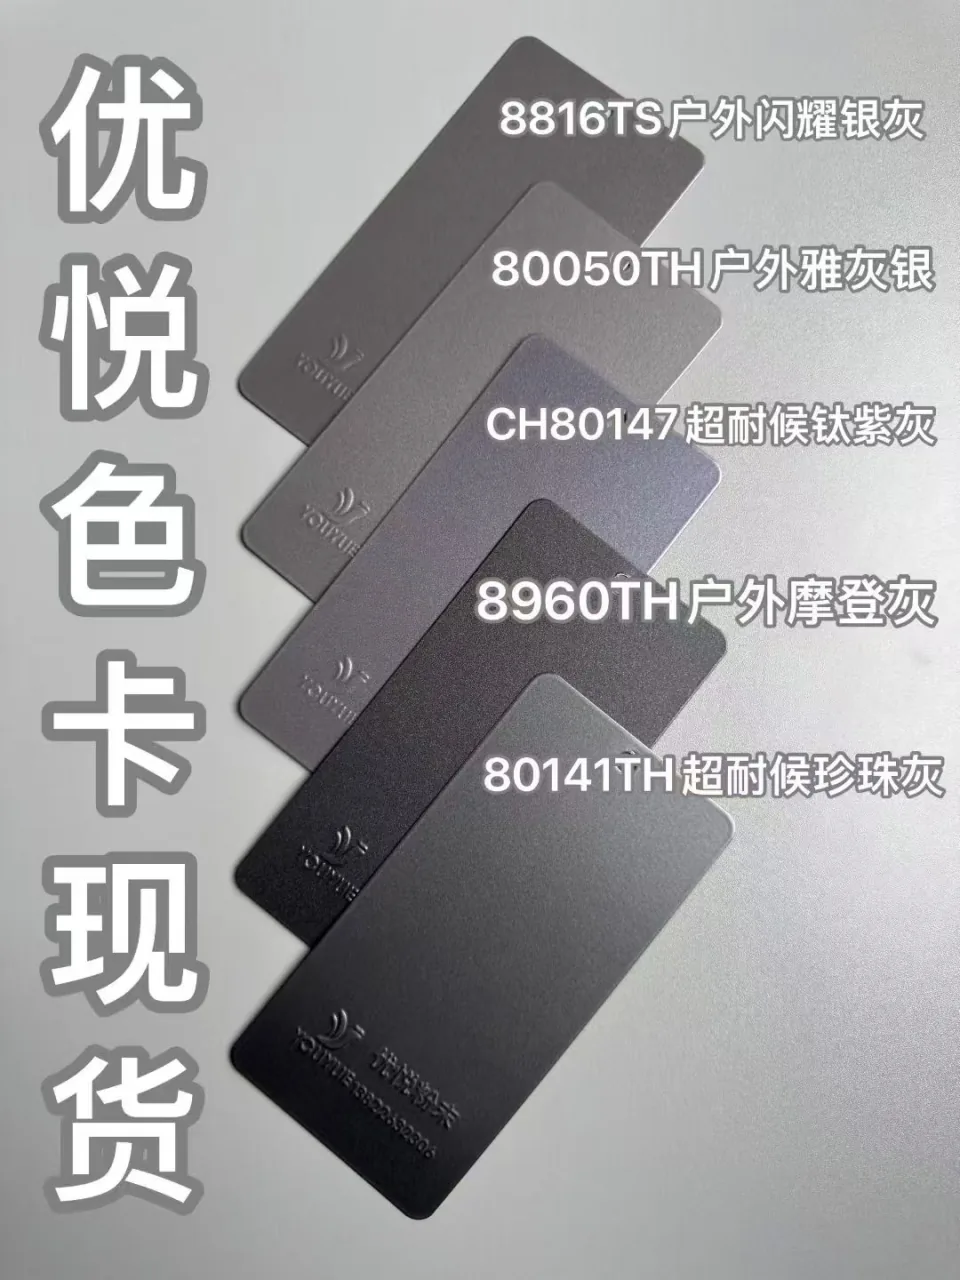
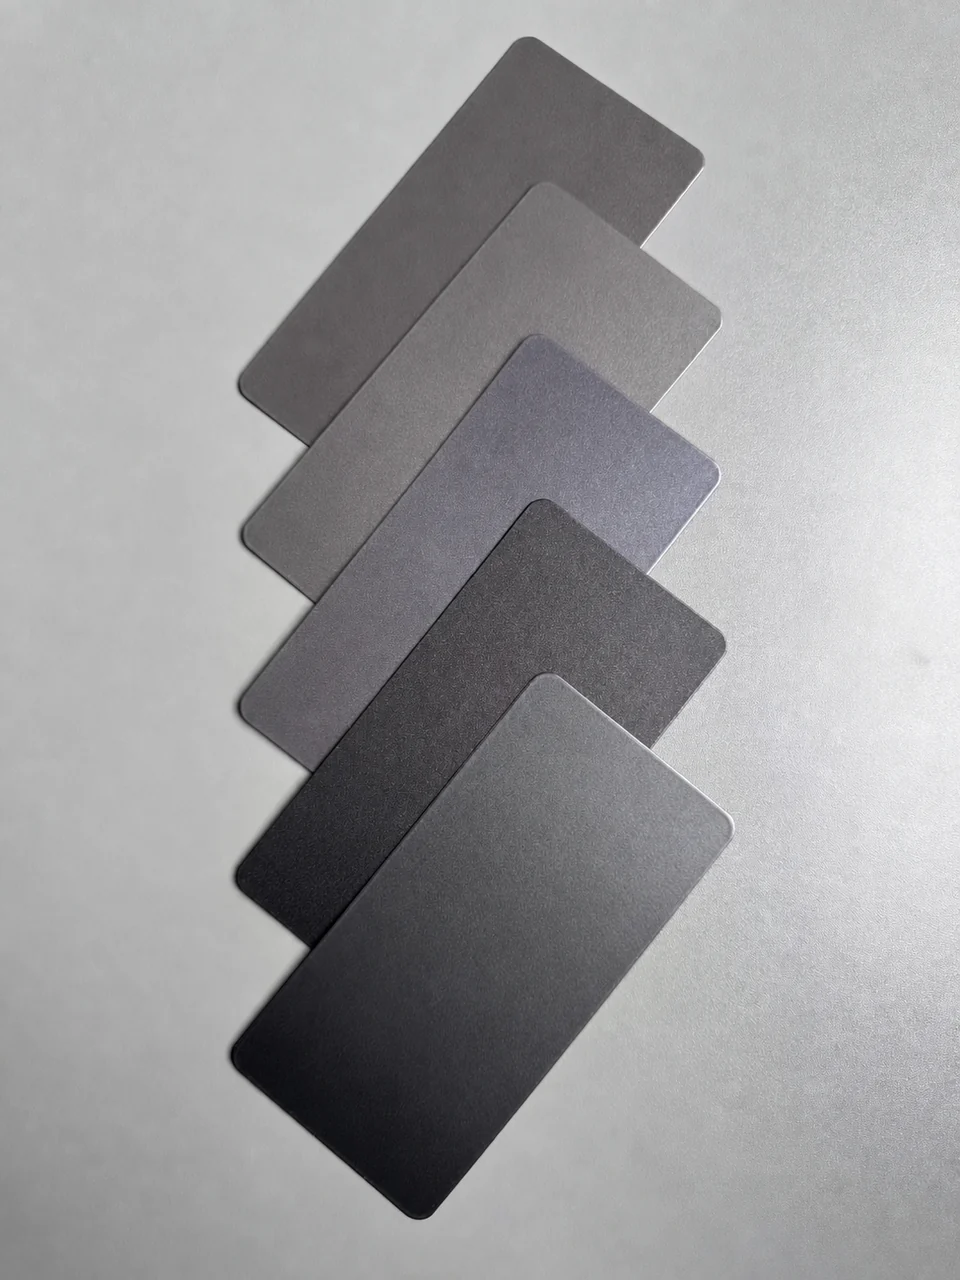
Add seven clean material palettes

diff --git a/assets/app.js b/assets/app.js
@@ -91,8 +91,8 @@
 
       frameFinish: "Frame finish", ropeColour: "Rope colour", selected: "Selected",
       supplierMaterialReference: "Supplier material reference",
-      supplierPaletteTitle: "Supplier finish & weave references",
-      supplierPaletteIntro: "Real production samples from our outdoor-material supplier, matched only to product types that can use them.",
+      supplierPaletteTitle: "Colour & weave palette library",
+      supplierPaletteIntro: "Seven production sample palettes from our outdoor-material supplier, matched only to product types that can use them.",
       finishReferenceTitle: "Outdoor powder-coat finishes",
       finishReferenceBody: "Neutral weather-resistant frame finishes for applicable aluminium furniture and shade structures.",
       ropeReferenceTitle: "Outdoor rope & weave options",
@@ -285,8 +285,8 @@
 
       frameFinish: "框架颜色", ropeColour: "绳编配色", selected: "已选",
       supplierMaterialReference: "供应商材质参考",
-      supplierPaletteTitle: "供应商表面处理与编织参考",
-      supplierPaletteIntro: "来自户外材料供应商的实物样卡，仅匹配可使用相应工艺的产品类别。",
+      supplierPaletteTitle: "颜色与编织样板库",
+      supplierPaletteIntro: "七组来自户外材料供应商的实物样板，仅匹配可使用相应工艺的产品类别。",
       finishReferenceTitle: "户外喷粉表面处理",
       finishReferenceBody: "适用于相关铝合金家具与遮阳结构的耐候中性色框架饰面。",
       ropeReferenceTitle: "户外绳编与编织选项",
@@ -463,6 +463,36 @@
       srcset: "assets/images/material-references/frame-finishes-480.webp 480w, assets/images/material-references/frame-finishes-960.webp 960w",
       width: 480, height: 640,
     },
+    muted: {
+      alt: "Muted powder-coat colour sample fan",
+      src: "assets/images/material-references/muted-finishes-480.webp",
+      srcset: "assets/images/material-references/muted-finishes-480.webp 480w, assets/images/material-references/muted-finishes-960.webp 960w",
+      width: 480, height: 640,
+    },
+    warm: {
+      alt: "Warm textured powder-coat sample cards",
+      src: "assets/images/material-references/warm-finishes-480.webp",
+      srcset: "assets/images/material-references/warm-finishes-480.webp 480w, assets/images/material-references/warm-finishes-960.webp 960w",
+      width: 480, height: 640,
+    },
+    metallic: {
+      alt: "Cool metallic powder-coat sample cards",
+      src: "assets/images/material-references/metallic-finishes-480.webp",
+      srcset: "assets/images/material-references/metallic-finishes-480.webp 480w, assets/images/material-references/metallic-finishes-960.webp 960w",
+      width: 480, height: 640,
+    },
+    pastel: {
+      alt: "Pastel powder-coat colour sample fan",
+      src: "assets/images/material-references/pastel-finishes-480.webp",
+      srcset: "assets/images/material-references/pastel-finishes-480.webp 480w, assets/images/material-references/pastel-finishes-960.webp 960w",
+      width: 480, height: 480,
+    },
+    bright: {
+      alt: "Bright powder-coat colour sample fan",
+      src: "assets/images/material-references/bright-finishes-480.webp",
+      srcset: "assets/images/material-references/bright-finishes-480.webp 480w, assets/images/material-references/bright-finishes-960.webp 960w",
+      width: 480, height: 360,
+    },
     rope: {
       title: "ropeReferenceTitle", body: "ropeReferenceBody", alt: "Outdoor rope and weave material samples",
       src: "assets/images/material-references/rope-weave-480.webp",
@@ -470,18 +500,27 @@
       width: 480, height: 360,
     },
   };
-  const materialReferenceCard = (ref) => `
-    <article class="material-reference-card">
+  const MATERIAL_REFERENCE_GALLERY = [
+    MATERIAL_REFERENCES.finish,
+    MATERIAL_REFERENCES.muted,
+    MATERIAL_REFERENCES.warm,
+    MATERIAL_REFERENCES.metallic,
+    MATERIAL_REFERENCES.pastel,
+    MATERIAL_REFERENCES.bright,
+    MATERIAL_REFERENCES.rope,
+  ];
+  const materialReferenceCard = (ref, { imageOnly = false } = {}) => `
+    <article class="material-reference-card${imageOnly ? " is-image-only" : ""}">
       <span class="material-reference-media">
         <img src="${ref.src}" srcset="${ref.srcset}"
              sizes="(min-width: 981px) 420px, calc(100vw - 80px)"
              width="${ref.width}" height="${ref.height}" loading="lazy" decoding="async"
              alt="${esc(ref.alt)}">
       </span>
-      <span class="material-reference-copy">
+      ${imageOnly ? "" : `<span class="material-reference-copy">
         <strong>${esc(t(ref.title))}</strong>
         <span>${esc(t(ref.body))}</span>
-      </span>
+      </span>`}
     </article>`;
   const materialReferencesFor = (product) => {
     const refs = [];
@@ -993,8 +1032,8 @@
     byId("finish-strip").innerHTML = FINISHES.map((f) =>
       `<div><div class="sw" style="background:${f.hex}"></div><span>${esc(f[state.lang])}</span></div>`).join("");
 
-    byId("material-reference-grid").innerHTML = [MATERIAL_REFERENCES.finish, MATERIAL_REFERENCES.rope]
-      .map(materialReferenceCard).join("");
+    byId("material-reference-grid").innerHTML = MATERIAL_REFERENCE_GALLERY
+      .map((ref) => materialReferenceCard(ref, { imageOnly: true })).join("");
 
     byId("footer-collections").innerHTML = catalog.collections.map((c) =>
       `<button type="button" data-open-collection="${c.slug}">${esc(label(c))}</button>`).join("");

diff --git a/assets/styles.css b/assets/styles.css
@@ -397,8 +397,8 @@ h1, h2, h3 { font-family: var(--sans); font-weight: 600; letter-spacing: -.015em
 .product-material-reference { margin: 0 0 28px; padding-top: 4px; }
 .material-reference-grid { display: grid; grid-template-columns: repeat(2, minmax(0, 1fr)); gap: 16px; }
 .material-reference-card { display: flex; flex-direction: column; min-width: 0; background: var(--paper); border: 1px solid var(--line); }
-.material-reference-media { display: grid; place-items: center; aspect-ratio: 4/3; overflow: hidden; background: #e9e7e0; }
-.material-reference-media img { width: 100%; height: 100%; object-fit: contain; display: block; }
+.material-reference-media { position: relative; display: grid; place-items: center; aspect-ratio: 4/3; overflow: hidden; background: #e9e7e0; }
+.material-reference-media img { position: absolute; inset: 0; width: 100%; height: 100%; object-fit: contain; display: block; }
 .material-reference-copy { display: flex; flex-direction: column; gap: 8px; padding: 16px; }
 .material-reference-copy strong { color: var(--ink); font-size: 14px; line-height: 1.35; }
 .material-reference-copy > span { color: var(--muted); font-size: 13px; line-height: 1.5; }
@@ -407,7 +407,13 @@ h1, h2, h3 { font-family: var(--sans); font-weight: 600; letter-spacing: -.015em
 .supplier-reference-head { margin-bottom: 32px; }
 .supplier-reference-head h2 { margin: 18px 0 12px; }
 .supplier-reference-head p { margin: 0; color: var(--muted); max-width: 64ch; }
-.material-reference-grid-wide { gap: 24px; }
+.material-reference-grid-wide { grid-template-columns: repeat(12, minmax(0, 1fr)); gap: clamp(14px, 1.6vw, 24px); max-width: 1280px; }
+.material-reference-grid-wide .material-reference-card:nth-child(-n + 4) { grid-column: span 3; }
+.material-reference-grid-wide .material-reference-card:nth-child(n + 5) { grid-column: span 4; }
+.material-reference-card.is-image-only { border: 0; background: #e9e7e0; padding: clamp(8px, .8vw, 12px); box-shadow: 0 12px 32px rgba(3, 31, 65, .08); }
+.material-reference-card.is-image-only .material-reference-media { background: #e3e0d7; }
+.material-reference-grid-wide .material-reference-card:nth-child(-n + 4) .material-reference-media { aspect-ratio: 3/4; }
+.material-reference-grid-wide .material-reference-card:nth-child(n + 5) .material-reference-media { aspect-ratio: 4/3; }
 .material-reference-grid-wide .material-reference-copy { padding: 22px; }
 .moq { padding: 20px 0; border-top: 1px solid var(--line); border-bottom: 1px solid var(--line); margin-bottom: 28px; font-size: 15px; color: var(--ink); }
 .pd-actions { display: flex; flex-direction: column; gap: 14px; }
@@ -589,6 +595,9 @@ h1, h2, h3 { font-family: var(--sans); font-weight: 600; letter-spacing: -.015em
   .band-split { grid-template-columns: 1fr; }
   .band-split img { min-height: 320px; }
   .home-grid > * { grid-column: span 6 !important; }
+  .material-reference-grid-wide .material-reference-card:nth-child(n) { grid-column: span 6; }
+  .material-reference-grid-wide .material-reference-card:nth-child(n) .material-reference-media { aspect-ratio: 4/3; }
+  .material-reference-grid-wide .material-reference-card:last-child { grid-column: 4 / span 6; }
   .thirds, .cap-grid { grid-template-columns: repeat(2, 1fr); }
   .footer-cols { grid-template-columns: repeat(2, 1fr); }
   .fields, .glance { grid-template-columns: 1fr; }
@@ -614,6 +623,8 @@ h1, h2, h3 { font-family: var(--sans); font-weight: 600; letter-spacing: -.015em
   .hero-pager { display: none; }
   .home-grid > * { grid-column: span 12 !important; }
   .material-reference-grid { grid-template-columns: 1fr; }
+  .material-reference-grid-wide .material-reference-card:nth-child(n) { grid-column: 1 / -1; }
+  .material-reference-grid-wide .material-reference-card:nth-child(n) .material-reference-media { aspect-ratio: 4/3; }
   .supplier-reference-block { margin-top: 48px; padding-top: 48px; }
   .product-grid, .related-grid, .thirds, .cap-grid, .footer-cols, .pd-thumbs { grid-template-columns: repeat(2, 1fr); }
   .product-grid { gap: 28px 16px; }

diff --git a/index.html b/index.html
@@ -13,7 +13,7 @@
       href="assets/images/hero/hero-sig-1-1600.webp?v=20260807-no-white"
       imagesrcset="assets/images/hero/hero-sig-1-960.webp?v=20260807-no-white 960w, assets/images/hero/hero-sig-1-1600.webp?v=20260807-no-white 1600w, assets/images/hero/hero-sig-1-2350.webp?v=20260807-no-white 2350w"
       imagesizes="100vw">
-<link rel="stylesheet" href="assets/styles.css?v=20260830-materials">
+<link rel="stylesheet" href="assets/styles.css?v=20260830-palettes">
 </head>
 <body>
 
@@ -894,6 +894,6 @@
 <div id="cursor-ring" aria-hidden="true"></div>
 
 <script src="assets/catalog-data.js?v=20260822-type"></script>
-<script src="assets/app.js?v=20260830-materials"></script>
+<script src="assets/app.js?v=20260830-palettes"></script>
 </body>
 </html>
